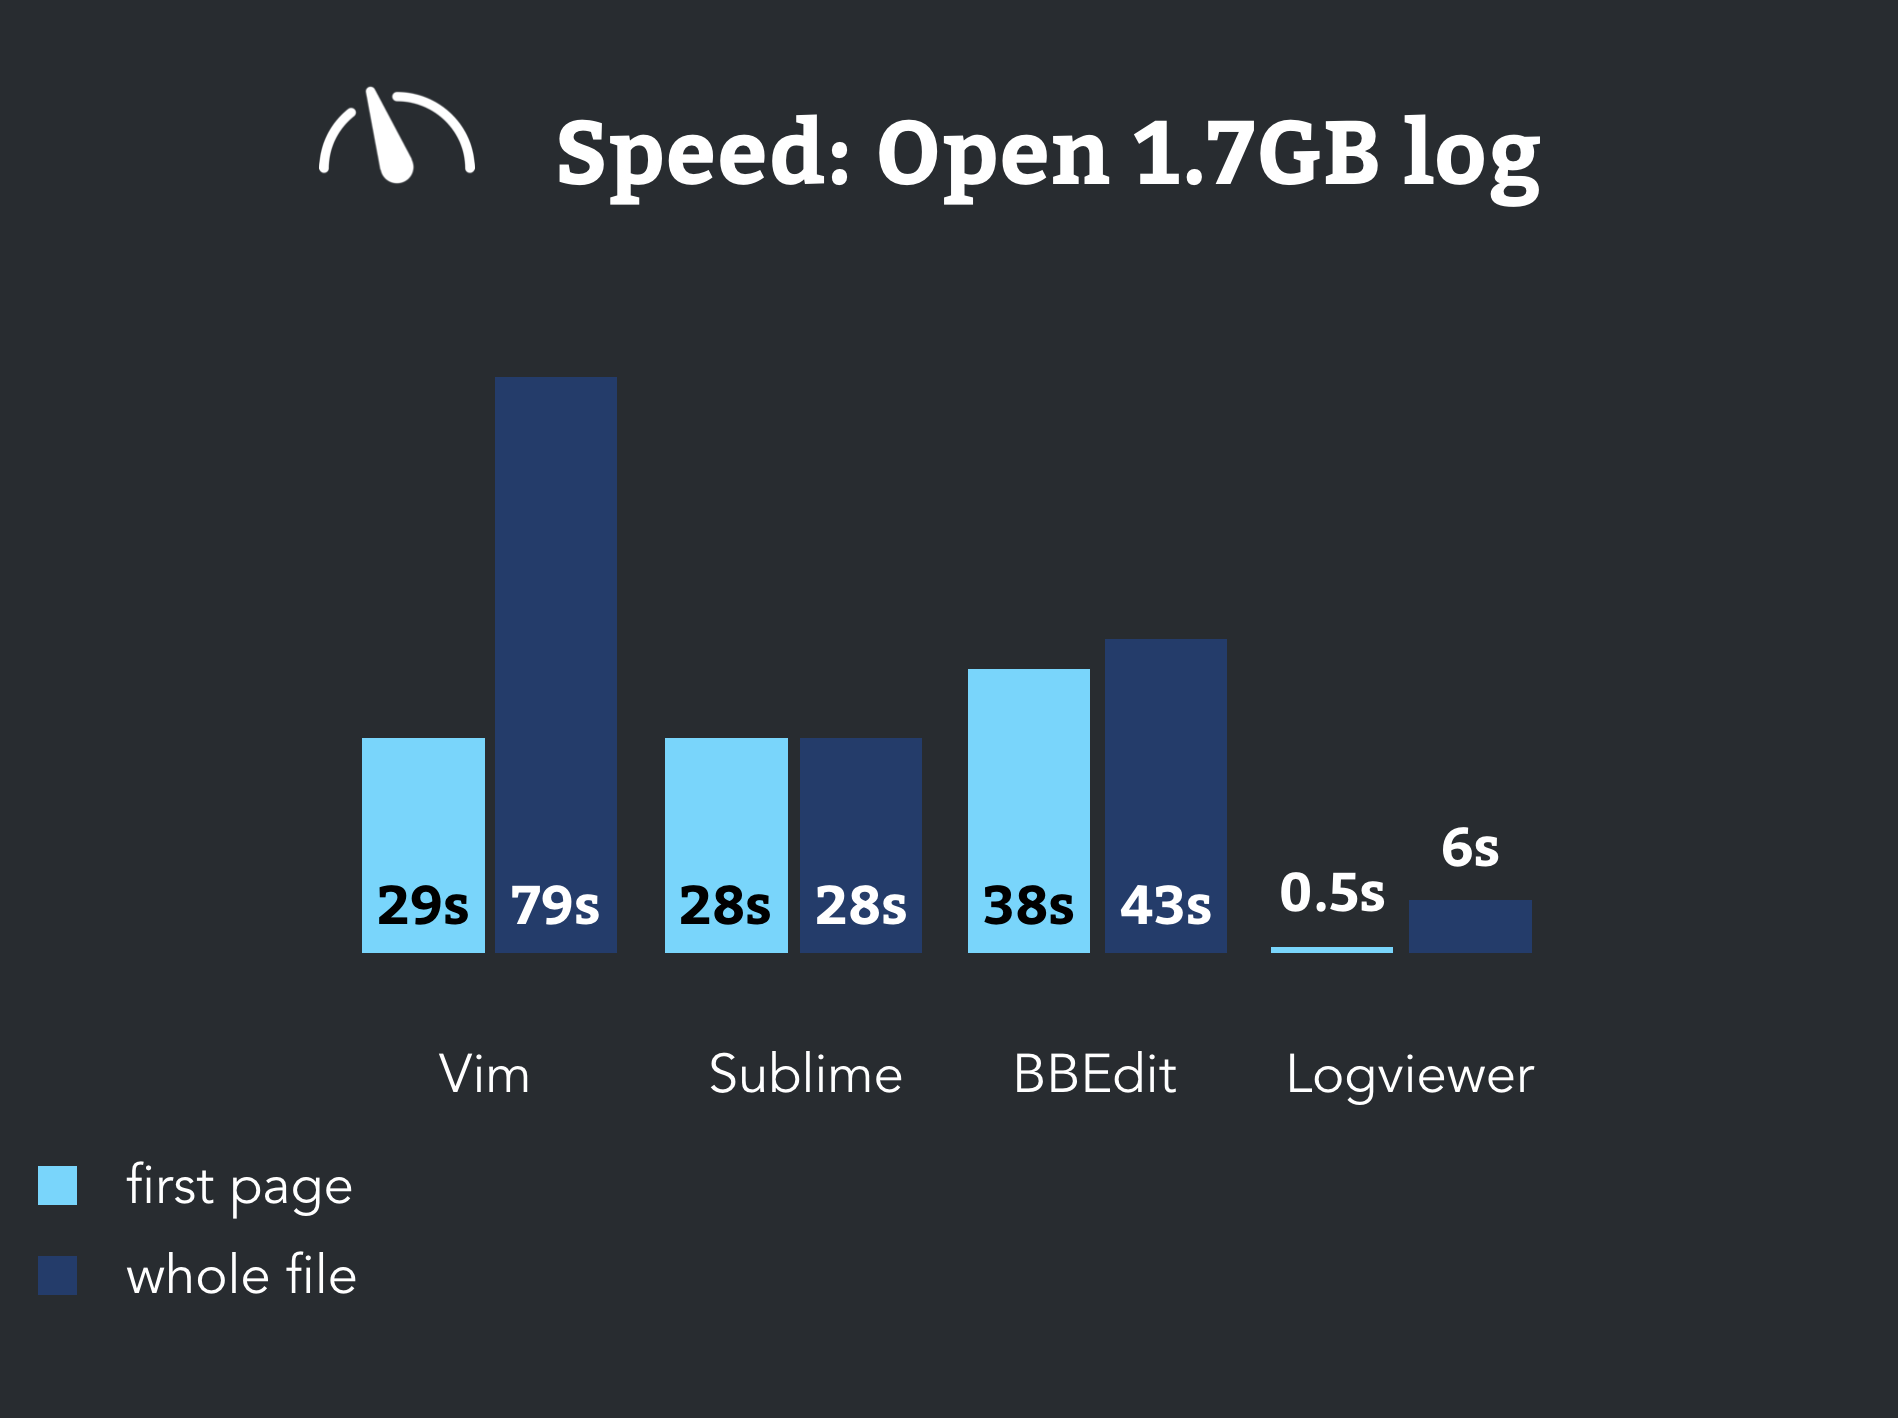
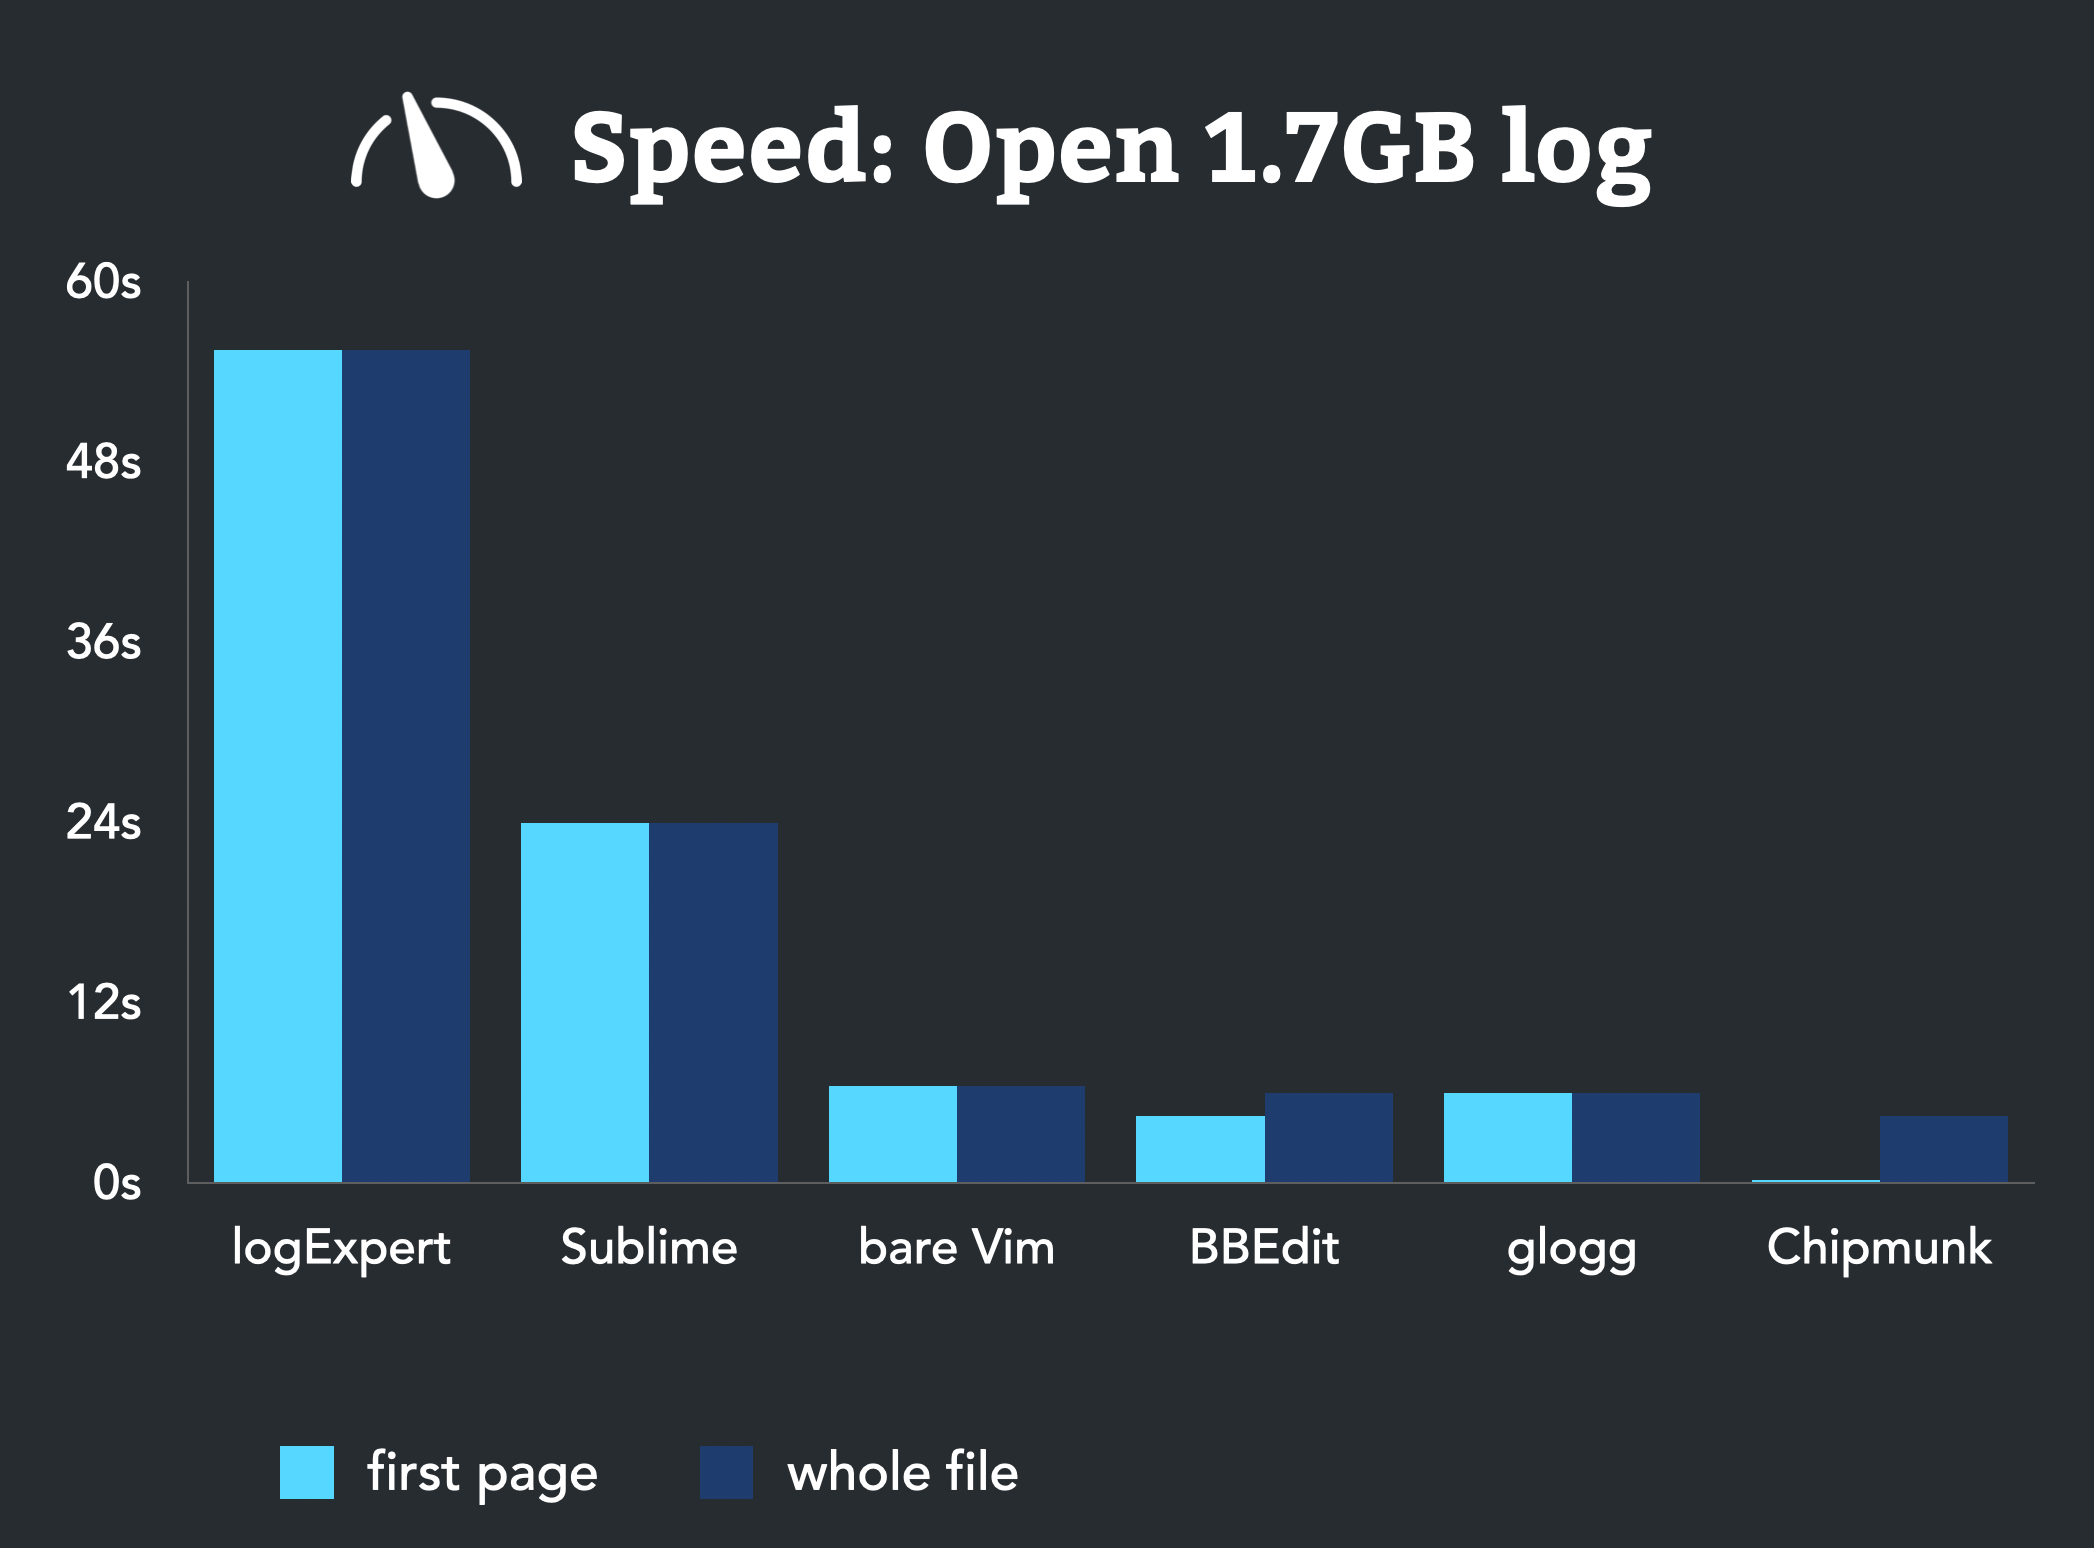
added blogpost about performance and charts

diff --git a/jekyll/_posts/2020-01-21-dealing-with-huge-files.md b/jekyll/_posts/2020-01-21-dealing-with-huge-files.md
@@ -7,18 +7,40 @@ categories:
 author_staff_member: oliver
 ---
 
-Lorem ipsum dolor sit amet, consectetur adipiscing elit, sed do eiusmod tempor incididunt ut labore et dolore magna aliqua. Velit scelerisque in dictum non consectetur a erat nam at. Ridiculus mus mauris vitae ultricies leo integer malesuada. Porttitor eget dolor morbi non arcu risus quis varius. Penatibus et magnis dis parturient montes nascetur ridiculus mus mauris.
+With well-performing desktop and notebook computers, it should no longer be an issue to quickly work with large log files. But unfortunately, this is not as straight forward as you might think. Especially when working with windows, the out-of-the-box tools just do not cut it.
+
+<img src="{{ site.baseurl }}/images/notepad_indexing.png" alt="Notepad" title="Notepad"
+  style="width: 50%; display:block; margin-left:auto; margin-right:auto;" />
+
+A developer or sysadmin should not have to worry about the incapabilities of the tools but the content of the log file.
 
 ## Large is not Huge
 
-Elit ullamcorper dignissim cras tincidunt lobortis feugiat. Elementum integer enim neque volutpat. Amet purus gravida quis blandit turpis cursus in. Ullamcorper sit amet risus nullam. Libero justo laoreet sit amet cursus sit amet dictum. Odio ut sem nulla pharetra diam sit amet nisl suscipit. Ornare suspendisse sed nisi lacus. Vestibulum rhoncus est pellentesque elit ullamcorper dignissim. Adipiscing elit duis tristique sollicitudin nibh sit amet commodo nulla. Viverra orci sagittis eu volutpat odio facilisis mauris. Nec tincidunt praesent semper feugiat nibh sed. Dictum fusce ut placerat orci nulla pellentesque.
+Of course, there are solutions available, even though you need to search for them. But things often go south when files get too large. But what should we consider too large? I'd say as long as your system can deal with a huge file on disk, all functionality of a good log viewing tool should be available with a minimum performance impact.
 
-![Many](https://source.unsplash.com/user/aledicredico/d5BZLHMlntw)
+![Notepad]({{ site.baseurl }}/images/iceberg.jpg)
+
+Let's say you have a 10 GByte log file. You should not have to wait when opening it and you should have excellent performance when executing search requests for the whole document.
 
 ## Why are we so fast?
 
-In est ante in nibh mauris cursus mattis molestie. Facilisis sed odio morbi quis commodo odio aenean sed adipiscing. Maecenas accumsan lacus vel facilisis. Mi sit amet mauris commodo quis imperdiet massa. Molestie nunc non blandit massa enim nec. A pellentesque sit amet porttitor eget. Ultricies mi quis hendrerit dolor magna eget. Mi sit amet mauris commodo quis imperdiet. Fusce ut placerat orci nulla pellentesque. Lectus mauris ultrices eros in. Nam libero justo laoreet sit amet cursus sit amet. Augue lacus viverra vitae congue eu consequat. Id donec ultrices tincidunt arcu non sodales. Vitae proin sagittis nisl rhoncus mattis rhoncus. Dolor sed viverra ipsum nunc aliquet. Sagittis eu volutpat odio facilisis mauris sit. Mi tempus imperdiet nulla malesuada pellentesque elit eget gravida. Felis eget nunc lobortis mattis aliquam faucibus purus in.
+All performance intense operations in chipmunk are implemented in Rust and great care was taken to make them efficient. Data is processed lazily and thus even the biggest files can be processed quickly. For searching, we rely on the brilliant [ripgrep tool](https://github.com/BurntSushi/ripgrep) which is the fastest search tool around to our knowledge.
+
+Here is an unscientific benchmark for dealing with a 1.7GByte file. We tried multiple applications that are known for their ability to deal with huge files. These are the applications we tried:
+logExpert (a nice log-viewer for windows)
+Sublime (fast native editor for macOS)
+bare Vim
+BBEdit (very fast native editor for macOS)
+glogg (awesome logging tool)
+chipmunk
+Tests were conducted on a powerful MacBook Pro (2.3GHz 8-Core) and with both the macOS version of chipmunk and the Windows version running in a virtual machine.
 
 ![Performance]({{ site.baseurl }}/images/performance.png)
 
-Integer enim neque volutpat ac tincidunt vitae semper quis lectus. Amet mauris commodo quis imperdiet massa tincidunt nunc. Magna eget est lorem ipsum. Arcu dui vivamus arcu felis bibendum ut. Turpis egestas maecenas pharetra convallis posuere morbi leo urna molestie. Nulla aliquet enim tortor at auctor urna nunc id.
+Another important use-case is, of course, executing searches across the whole content. The search in `logExpert` took more than 4 minutes and the results were thus excluded.
+
+![Performance]({{ site.baseurl }}/images/search_performance.png)
+
+While chipmunks' performance is good it is necessary to point out that we assume the target audience (developers, sysadmins, analysts) have access to fast hardware with SSD drives. We haven't tested chipmunk on old hardware with HDD drives but we expect that our performance will be worse here since we make extensive use of the underlying disk system for any huge files.
+
+Photo by Hubert Neufeld on Unsplash

diff --git a/jekyll/_posts/2020-04-13-charts-with-scales.md b/jekyll/_posts/2020-04-13-charts-with-scales.md
@@ -1,0 +1,34 @@
+---
+date: 2020-04-13
+title: Charts now with scales
+categories:
+  - charts
+  - logs
+author_staff_member: oliver
+---
+
+Charts were the first graphical feature we introduced in chipmunk. Using them will allow you to get a quick overview of the data you need to analyze.
+
+## Data with a chart
+In an example we used chipmunks command-plugin to repeatedly execute the `top` command:
+```bash
+top -s 5 | rg "Load|CPU\susage|Networks|Disks"
+```
+We applied a chart-search-expression to the data, once to extract the CPU usage and once to extract the Load average.
+![Performance]({{ site.baseurl }}/images/charts_without_scale.png)
+
+## Details for individual charts
+
+While we think this is already immensely powerful, the charts feature gained a very important detail with the latest release: charts can now show you the scale of the data they depict, depending on which of the graphs is selected.
+In the images below, we respectively selected the green and the pink graph.
+
+![Performance]({{ site.baseurl }}/images/chart_with_green_scale.png)
+
+It's now easy to see at a glance that the load was always between 1 and 2 percent.
+
+![Performance]({{ site.baseurl }}/images/chart_with_red_scale.png)
+
+The CPU usage was between 0 and 30 percent.
+
+We hope that this little detail will make charts even more useful to you.
+
